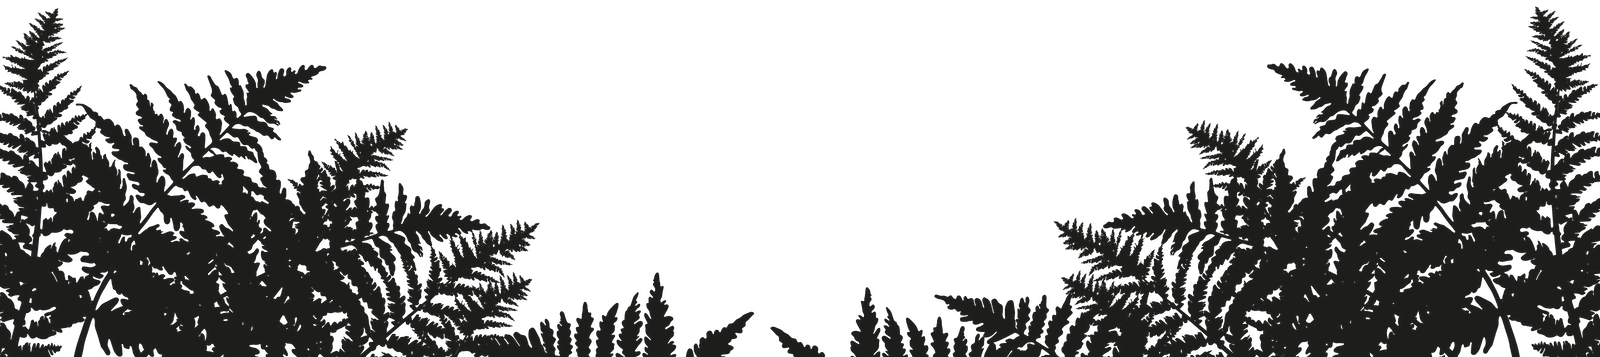
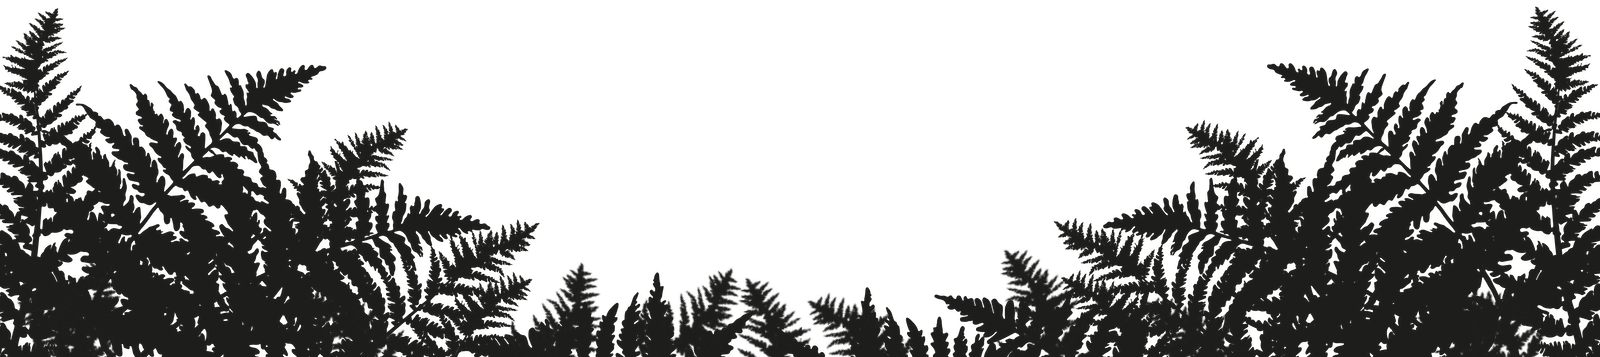
improve ferns, improve paper border, align my work section better

diff --git a/style.css b/style.css
@@ -423,6 +423,7 @@ nav {
     flex-direction: column;
     align-items: center;
     gap: 20rem;
+    margin-top: 12rem;
   }
 }
 
@@ -491,6 +492,7 @@ nav {
 /*#region my work*/
 .fern {
   width: 100%;
+  min-width: 700px;
   padding-bottom: 22%;
   mask-image: url(ferns.png);
   background-color: var(--primary2);
@@ -517,16 +519,16 @@ nav {
   align-items: stretch;
   justify-content: center;
   flex-direction: column;
-  max-width: 900px;
+  /* max-width: 900px; */
 }
 .my-work-list__item {
   position: relative;
   border-radius: var(--border-radius);
   display: flex;
-  gap: 2rem;
+  gap: 4rem;
 }
 .my-work-list__item__header {
-  width: 20rem;
+  width: 18rem;
 }
 .my-work-list__item:after {
   content: '';
@@ -591,8 +593,8 @@ nav {
 @media all and (max-width: 600px) {
   .my-work-list__item {
     flex-direction: column;
-    align-items: flex-start;
-    gap: 0;
+    align-items: center;
+    gap: 3rem;
   }
 }
 
